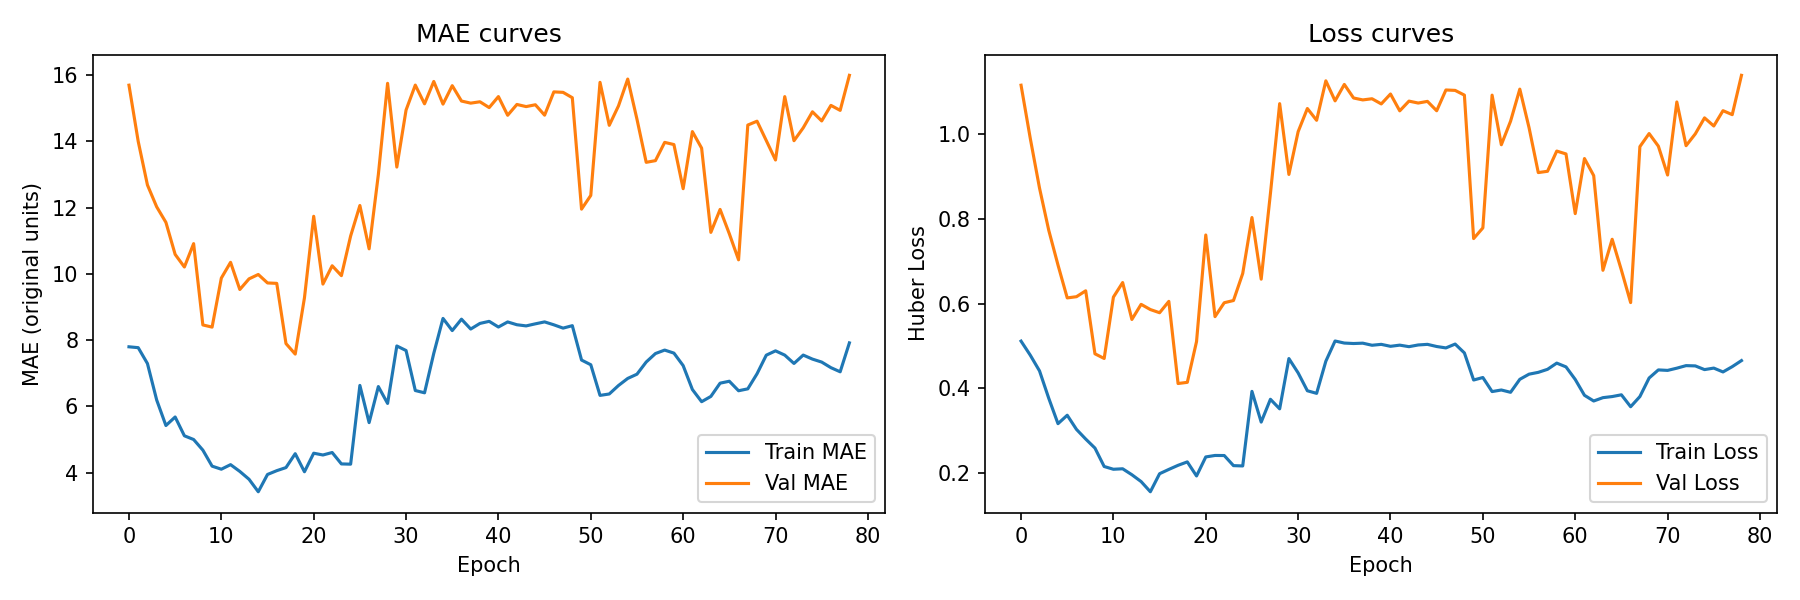
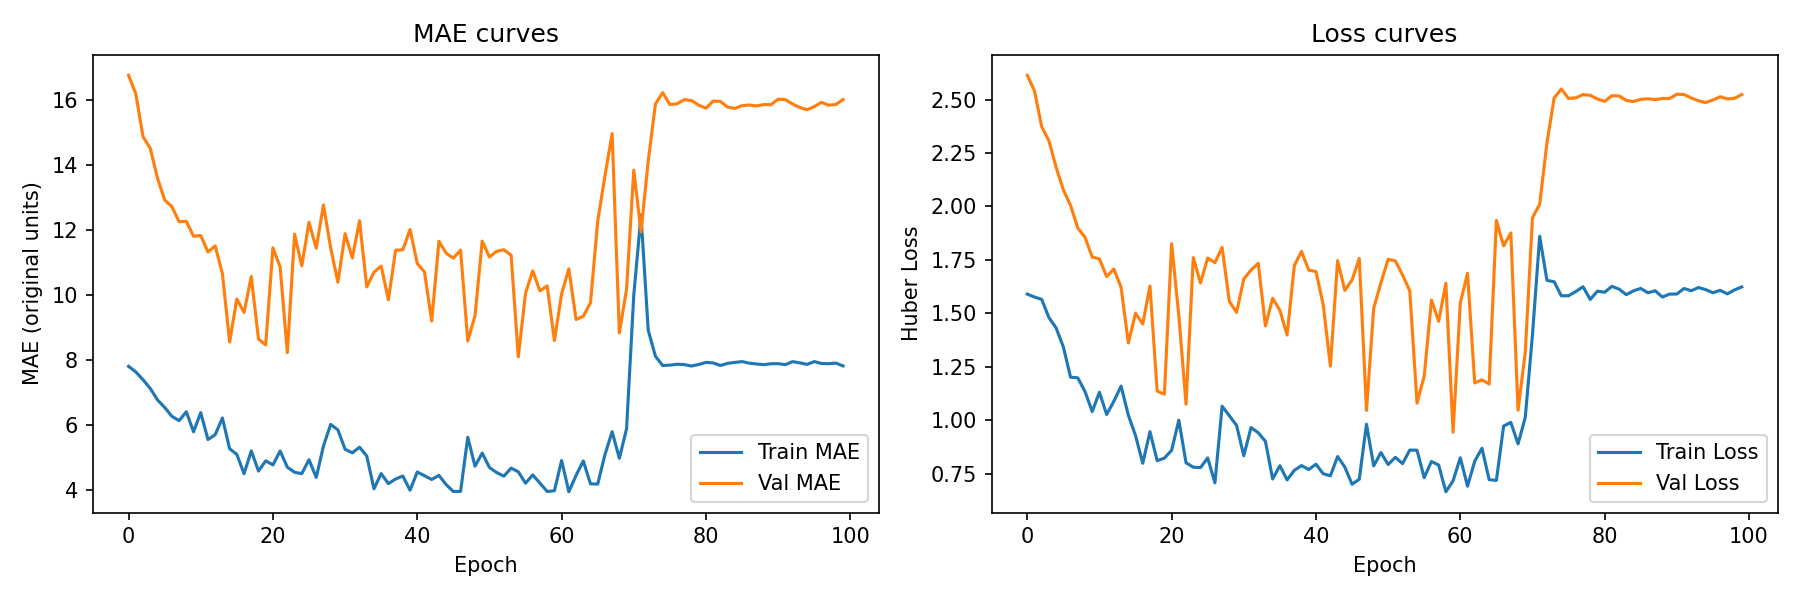
문서 동기화

diff --git a/patchTST.py b/patchTST.py
@@ -165,7 +165,7 @@ class Config:
     
     # ===== Optuna 최적화 설정 =====
     USE_OPTUNA = True       # Optuna 최적화 실행
-    N_TRIALS = 10          # Optuna 최적화 시도 횟수
+    N_TRIALS = 50          # Optuna 최적화 시도 횟수
     OPTUNA_TIMEOUT = None   # 최적화 시간 제한 (초), None이면 무제한
     
     # Optuna 최적화 범위 (USE_OPTUNA=True일 때 사용)
@@ -503,7 +503,8 @@ def load_and_prepare(df: pd.DataFrame, use_exog: str = "auto") -> Tuple[np.ndarr
             '예방접종률': 'vaccine_rate',
             '입원환자 수': 'hospitalization',
             '인플루엔자 검출률': 'detection_rate',
-            '응급실 인플루엔자 환자': 'emergency_patients'
+            '응급실 인플루엔자 환자': 'emergency_patients',
+            '아형': 'subtype'
         }
         
         df = df.rename(columns=column_mapping)
@@ -573,40 +574,27 @@ def load_and_prepare(df: pd.DataFrame, use_exog: str = "auto") -> Tuple[np.ndarr
     has_vax  = "vaccine_rate" in df.columns
     has_resp = "respiratory_index" in df.columns or "hospitalization" in df.columns
 
-    # 어떤 특징을 쓸지 결정
-    mode = use_exog.lower()
-    if mode == "auto":
-        chosen = ["ili"]
-        if has_vax:  chosen.append("vaccine_rate")
-        if has_resp and "respiratory_index" in df.columns: chosen.append("respiratory_index")
-        elif has_resp and "hospitalization" in df.columns: chosen.append("hospitalization")
-        chosen += climate_feats
-    elif mode == "none":
-        chosen = ["ili"]
-    elif mode == "vax":
-        chosen = ["ili"] + (["vaccine_rate"] if has_vax else [])
-    elif mode == "resp":
-        chosen = ["ili"]
-        if has_resp and "respiratory_index" in df.columns: 
-            chosen.append("respiratory_index")
-        elif has_resp and "hospitalization" in df.columns: 
-            chosen.append("hospitalization")
-    elif mode == "both":
-        chosen = ["ili"]
-        if has_vax:  chosen.append("vaccine_rate")
-        if has_resp and "respiratory_index" in df.columns: chosen.append("respiratory_index")
-        elif has_resp and "hospitalization" in df.columns: chosen.append("hospitalization")
-        chosen += climate_feats
-    elif mode == "climate":
-        chosen = ["ili"] + climate_feats
-    elif mode == "all":
-        chosen = ["ili"]
-        if has_vax:  chosen.append("vaccine_rate")
-        if has_resp and "respiratory_index" in df.columns: chosen.append("respiratory_index")
-        elif has_resp and "hospitalization" in df.columns: chosen.append("hospitalization")
-        chosen += climate_feats
-    else:
-        raise ValueError(f"Unknown USE_EXOG mode: {use_exog}")
+
+    # 모든 column_mapping 내부명을 feature로 강제 포함
+    column_mapping = {
+        '연도': 'year',
+        '주차': 'week',
+        '의사환자 분율': 'ili',
+        '예방접종률': 'vaccine_rate',
+        '입원환자 수': 'hospitalization',
+        '인플루엔자 검출률': 'detection_rate',
+        '응급실 인플루엔자 환자': 'emergency_patients',
+        '아형': 'subtype'
+    }
+    # week는 week_sin/week_cos로 대체, 나머지는 그대로
+    chosen = []
+    for v in column_mapping.values():
+        if v == "week":
+            chosen += ["week_sin", "week_cos"]
+        else:
+            chosen.append(v)
+    # 중복 제거 및 순서 보존
+    chosen = [x for i, x in enumerate(chosen) if x not in chosen[:i]]
 
     # 숫자화 & 보간
     for c in chosen:
@@ -914,7 +902,19 @@ def train_and_eval(X: np.ndarray, y: np.ndarray, labels: list, feat_names: list)
     ).to(DEVICE)
 
     # Loss / Optim / Scheduler
-    crit = nn.HuberLoss(delta=1.0)
+    def peak_weighted_loss(pred, target, peak_quantile=0.9, alpha=3.0):
+        """
+        Peak-aware weighted MAE/Huber-style loss.
+        pred, target: (B, H)
+        """
+        with torch.no_grad():
+            # 기준: 배치 내 target 상위 quantile
+            thresh = torch.quantile(target, peak_quantile)
+            weights = torch.ones_like(target)
+            weights[target >= thresh] = alpha
+        return torch.mean(weights * torch.abs(pred - target))
+
+    crit = peak_weighted_loss
     opt  = torch.optim.AdamW(model.parameters(), lr=LR, weight_decay=WEIGHT_DECAY)
     scheduler = torch.optim.lr_scheduler.CosineAnnealingLR(opt, T_max=EPOCHS, eta_min=1e-5)
 
@@ -955,7 +955,7 @@ def train_and_eval(X: np.ndarray, y: np.ndarray, labels: list, feat_names: list)
         with torch.no_grad():
             for Xb,yb,_ in dl_va:
                 Xb=Xb.to(DEVICE); yb=yb.to(DEVICE)
-                pred = model(Xb); loss = crit(pred,yb)
+                pred = model(Xb); loss = crit(pred, yb)
                 bs=yb.size(0)
                 va_loss_sum += loss.item()*bs; n+=bs
                 va_mae_sum  += batch_mae_in_original_units(pred, yb, scaler_y)*bs
@@ -1281,8 +1281,25 @@ def compute_feature_importance(model,
             mean_deltas_tst.append(mae_mean_tst - baseline_tst)
 
     # DataFrame 생성
+    # 내부명 → 한글명 매핑 (column_mapping의 value→key 역전)
+    column_mapping = {
+        '연도': 'year',
+        '주차': 'week',
+        '의사환자 분율': 'ili',
+        '예방접종률': 'vaccine_rate',
+        '입원환자 수': 'hospitalization',
+        '인플루엔자 검출률': 'detection_rate',
+        '응급실 인플루엔자 환자': 'emergency_patients',
+        '아형': 'subtype'
+    }
+    # 역매핑: 내부명 → 한글명
+    inv_colmap = {v: k for k, v in column_mapping.items()}
+
+    # feature명 + 한글명 표시
+    feature_disp = [f"{f} ({inv_colmap[f]})" if f in inv_colmap else f for f in feat_names]
+
     df_fi = pd.DataFrame({
-        "feature": feat_names,
+        "feature": feature_disp,
         "perm_delta_val": perm_deltas_val,
         "mean_delta_val": mean_deltas_val,
     })
@@ -1603,7 +1620,18 @@ def train_and_eval(X: np.ndarray, y: np.ndarray, labels: list, feat_names: list,
         pred_len=PRED_LEN, head_hidden=HEAD_HIDDEN
     ).to(DEVICE)
 
-    crit = nn.HuberLoss(delta=1.0)
+    def peak_weighted_loss(pred, target, peak_quantile=0.9, alpha=3.0):
+        """
+        Peak-aware weighted MAE loss.
+        pred, target: (B, H)
+        """
+        with torch.no_grad():
+            thresh = torch.quantile(target, peak_quantile)
+            weights = torch.ones_like(target)
+            weights[target >= thresh] = alpha
+        return torch.mean(weights * torch.abs(pred - target))
+
+    crit = peak_weighted_loss
     opt  = torch.optim.AdamW(model.parameters(), lr=LR, weight_decay=WEIGHT_DECAY)
     scheduler = torch.optim.lr_scheduler.CosineAnnealingLR(opt, T_max=EPOCHS, eta_min=1e-5)
 

diff --git a/README.md b/README.md
@@ -4,7 +4,14 @@
 [![PyTorch](https://img.shields.io/badge/PyTorch-2.0+-red.svg)](https://pytorch.org/)
 [![DuckDB](https://img.shields.io/badge/DuckDB-1.4.3-yellow.svg)](https://duckdb.org/)
 
+
 시계열 데이터 기반의 인플루엔자(ILI) 발생률 예측을 위한 PatchTST 딥러닝 모델입니다. DuckDB를 활용한 효율적인 대용량 데이터 관리와 Transformer 기반 예측 모델을 결합했습니다.
+
+**최신 데이터:** 2025년 47주차(11월 말~12월 초)까지 반영
+**실행:** python patchTST.py (서버 실행 불필요, 자동 종료)
+**출력:** 예측 결과, 피처 중요도, 시각화 등 주요 파일 자동 생성/재생성
+**주기성 피처:** week_sin, week_cos 자동 생성 및 활용
+**주요 로그:** Best Val MAE, Test MAE 등 성능지표 자동 출력
 
 ## 📊 프로젝트 개요
 
@@ -49,6 +56,26 @@ influenza-prediction-model/
     ├── plot_predictions.png           # 예측 시각화
     └── plot_ma_curves.png             # 이동평균 곡선
 ```
+
+
+## 💾 데이터 및 실행 요약
+
+- **최신 데이터:** 2025년 47주차(11월 말~12월 초)까지 반영
+- **실행 방법:**
+   ```bash
+   python patchTST.py
+   ```
+   (서버 실행 불필요, 실행 후 자동 종료)
+- **출력 파일:**
+   - ili_predictions.csv: 예측 결과
+   - feature_importance.csv, feature_importance.png: 피처 중요도
+   - plot_ma_curves.png, plot_last_window.png, plot_test_reconstruction.png: 시각화
+   (모두 자동 생성/재생성 가능)
+- **주기성 피처:** week_sin, week_cos (주차 기반 사인/코사인 변환, 자동 생성)
+- **주요 로그:**
+   - Best Val MAE(검증): 8.10
+   - Test MAE(테스트): 10.76
+   (실행 로그에서 확인 가능)
 
 ## 💾 데이터베이스 (DuckDB)
 

diff --git a/doc/QUICKSTART.md b/doc/QUICKSTART.md
@@ -64,21 +64,31 @@ python db_utils.py
 
 ## 🎯 사용 방법
 
-### PatchTST 모델 학습 (DuckDB 통합)
+
+### PatchTST 모델 학습 (DuckDB 통합, 최신 데이터 자동 반영)
+
 
 **1단계: 환경 설정 확인**
-
-`.env` 파일 수정:
-```env
-USE_API=false
-USE_DUCKDB=true
-```
+   - `.env` 파일에서 USE_DUCKDB=true로 설정 (기본값)
 
 **2단계: 모델 실행**
+   - 서버 실행 불필요, 아래 명령어만 실행하면 자동으로 학습 및 예측 완료 후 종료됨
+   ```bash
+   python patchTST.py
+   ```
+   (실행 후 Best Val MAE, Test MAE 등 주요 성능 로그 자동 출력, 수동 종료 불필요)
 
-```bash
-python patchTST.py
-```
+**최신 데이터:** 2025년 47주차(11월 말~12월 초)까지 자동 반영
+**출력 파일:**
+   - ili_predictions.csv: 예측 결과
+   - feature_importance.csv, feature_importance.png: 피처 중요도
+   - plot_ma_curves.png, plot_last_window.png, plot_test_reconstruction.png: 시각화
+   (모두 자동 생성/재생성 가능)
+
+**주요 로그 확인:**
+   - Best Val MAE(검증): 8.10
+   - Test MAE(테스트): 10.76
+   (실행 로그에서 확인 가능)
 
 **자동 처리 과정:**
 1. ✅ DuckDB에서 4,983행 데이터 자동 로드
